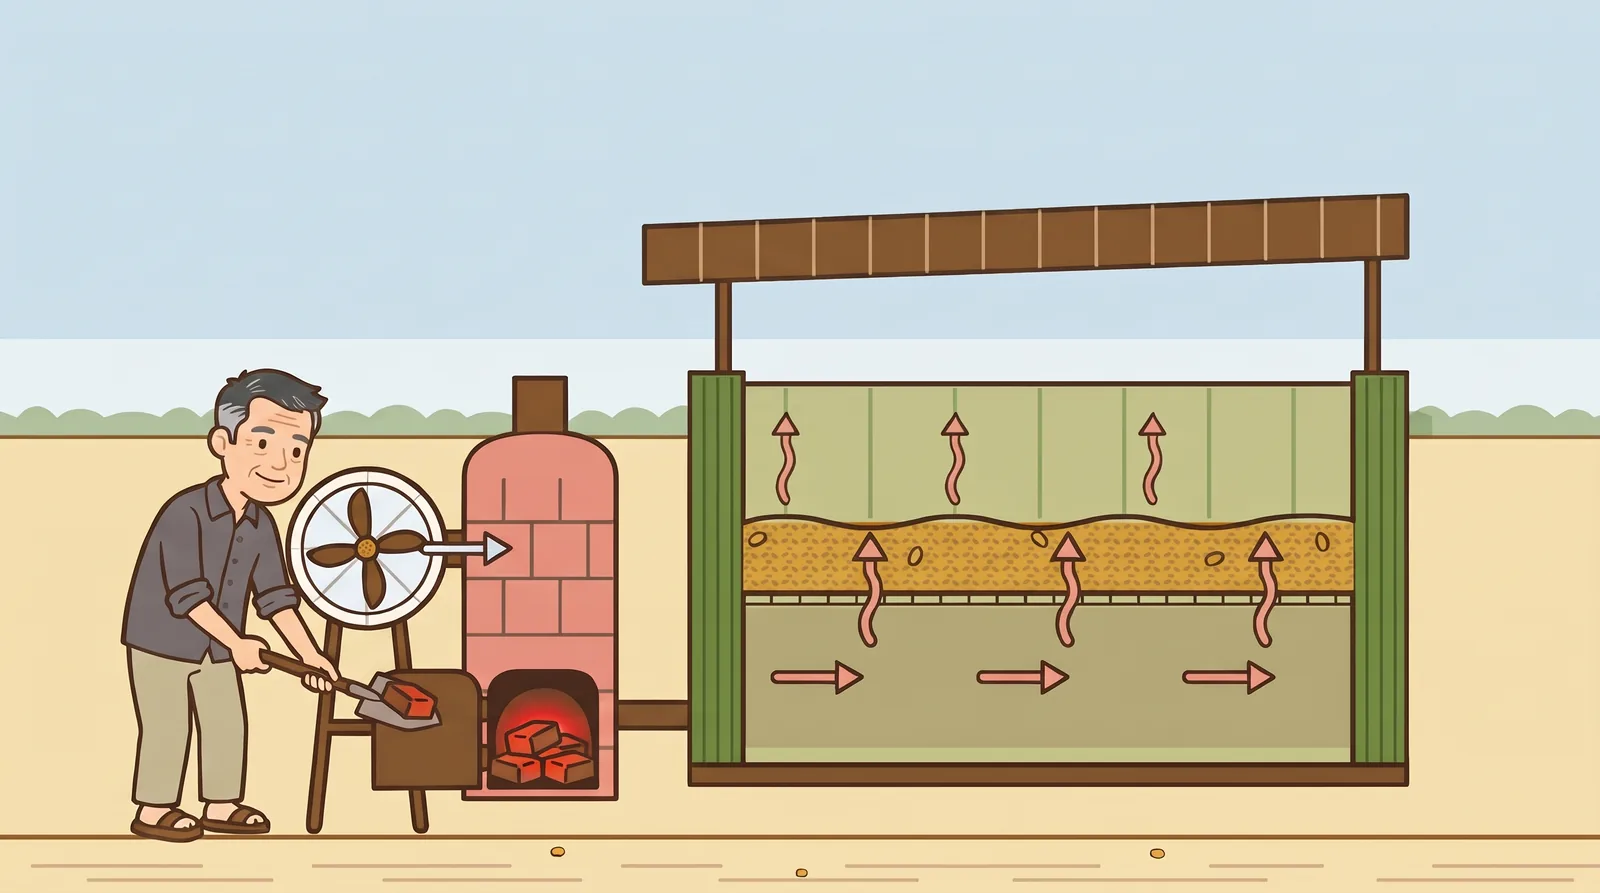
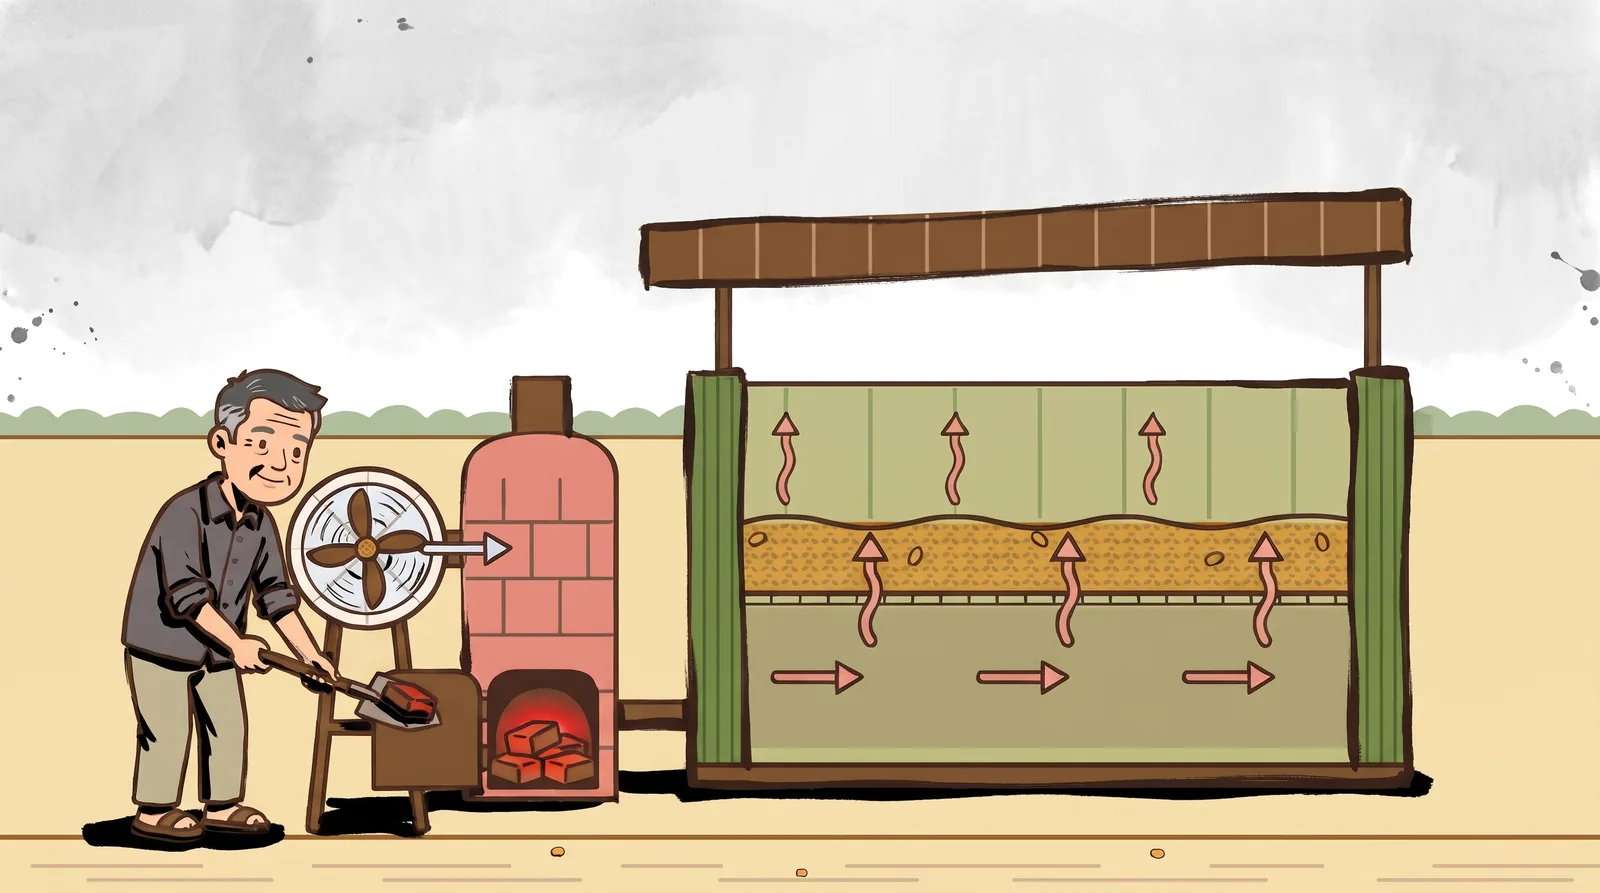
brand: journey sketches with flat colour and manhua ink lines, denser rice field

diff --git a/docs/session/log/2026-11-05-may-desktop-hanh-trinh-manhua.md b/docs/session/log/2026-11-05-may-desktop-hanh-trinh-manhua.md
@@ -9,6 +9,8 @@
 - Chủ dự án gửi ảnh ba và anh 2 (ảnh riêng, không vào repo, không gửi lên dịch vụ vẽ) → vẽ ba: khoảng 65–70 tuổi, gầy, tóc ngắn bạc gần hết, mặt gầy xương gò má cao; anh 2: khoảng 40 tuổi, tóc đen ngắn, mặt tròn, người đầy đặn.
 - Chủ dự án: giữ phong cách phẳng "để sau này còn làm chuyển động" → cảnh cuối phải là SVG tách lớp như hiện tại (người, quạt, mây, trời tách riêng). Ảnh Nano Banana chỉ là bản phác để duyệt bố cục; sau khi duyệt, dựng lại bằng SVG (sửa cảnh trong `brand/story/scenes/`, trace người mới bằng `vectorize-pose.py`).
 - Xem bản phác bước 2 và 4, chủ dự án: "ba mặt đầy đặn hơn xíu, tóc không bạc quá" → ba: mặt đầy đặn hơn, ít nếp nhăn, tóc muối tiêu (đen nhiều hơn bạc).
+- Chủ dự án chọn: "phẳng nét mực manhua đi đẹp đó" → cảnh hành trình giữ màu phẳng và bố cục tách lớp được, nhưng nét viền là nét mực bút lông kiểu manhua (đậm nhạt, đầu nét khô); nền trời có thể loang mực nhẹ vì là lớp riêng.
+- Chủ dự án: "còn đồng lúa chưa sửa hả" → đồng lúa bước 2 phải dày hẳn: lúa mọc kín, chen nhau thành một biển lúa, không còn từng khóm rời có khoảng trống.
 
 ## Quyết định
 - Không dùng tranh manhua cho hành trình (chủ dự án thấy chi tiết quá). Các cảnh mới vẽ theo phong cách phẳng hiện tại, chờ chủ dự án duyệt.
@@ -23,3 +25,4 @@
 - Phác phong cách phẳng (sửa từ cảnh hiện tại) cho bước 2 (ngày) và bước 4, lưu `brand/story/phac/` (commit `1ceed66`). Mẹ ở bước 2 trông như bé gái, ba trông già hơn ảnh (khoảng 80 tuổi). Thêm 2 ảnh Pro, khoảng 0,27 USD.
 - Sửa ba ở bước 2 và 4: tóc muối tiêu, mặt đầy hơn một chút. Mẹ ở bước 2 vẫn như bé gái (lần sửa không đổi được). Thêm 2 ảnh, khoảng 0,27 USD.
 - Chủ dự án hỏi "không làm style manhua hả" → giải thích: hành trình theo kiểu phẳng để làm chuyển động; manhua dùng cho tranh phần Câu chuyện; có thể làm kiểu phẳng với nét mực. Chờ chủ dự án chọn.
+- Bản phác thứ 3 (màu phẳng, nét mực manhua): đồng lúa bước 2 đã dày kín; trời thành loang mực xám (mất màu Xanh trời). Mẹ vẫn như bé gái sau 2 lần sửa → khi dựng SVG sẽ dùng tư thế mẹ người lớn đã trace. Thêm 2 ảnh, khoảng 0,27 USD; tổng phần hành trình 14 ảnh, khoảng 1,9 USD.

diff --git a/brand/story/phac/README.md b/brand/story/phac/README.md
@@ -1,6 +1,6 @@
 # Bản phác cảnh hành trình (phong cách phẳng)
 
-Ảnh Nano Banana Pro sửa từ cảnh SVG hiện tại (`web/public/story/canh-*.svg`), chỉ để duyệt bố cục.
+Ảnh Nano Banana Pro sửa từ cảnh SVG hiện tại, màu phẳng với nét mực kiểu manhua (chủ dự án chọn), (`web/public/story/canh-*.svg`), chỉ để duyệt bố cục.
 Sau khi chủ dự án duyệt, cảnh được dựng lại bằng SVG tách lớp trong `brand/story/scenes/` để làm chuyển động.
 Prompt và ảnh đầu vào: `prompts.json`.
 
